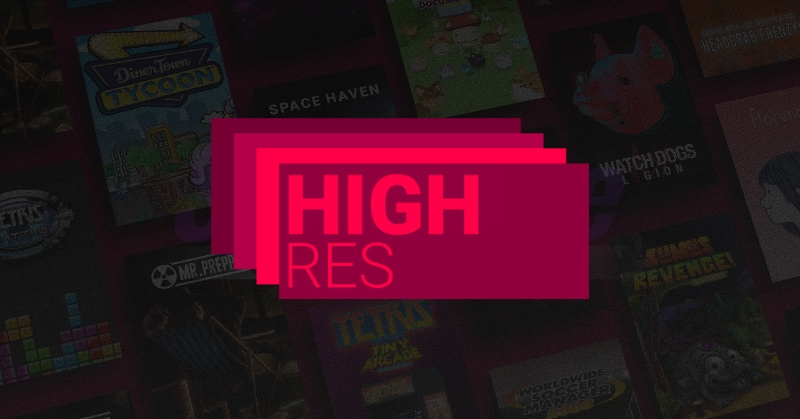
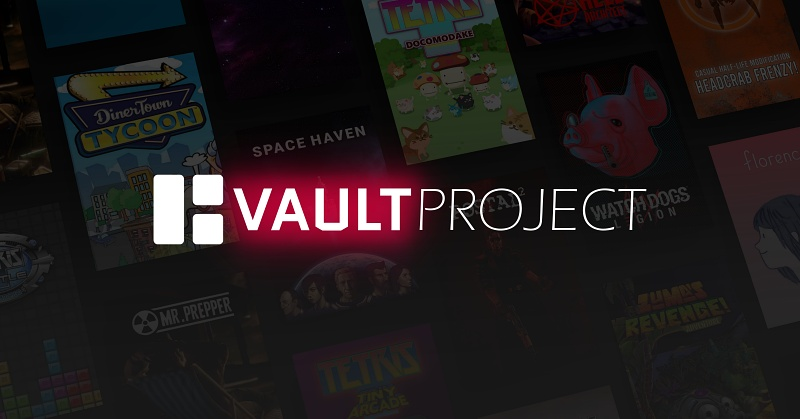
Changed branding

diff --git a/help.html b/help.html
@@ -3,14 +3,14 @@
   <head>
     <!--<meta http-equiv="refresh" content="0; URL='https://theema-dev.github.io/highRES/503'" />-->
     <!--META TAGS -->
-    <title>highRES - Help</title>
-    <meta property="og:title" content="highRES - Help" />
-    <meta property="og:description" content="highRES is an archive project for storing high resolution game assets. Download grids and customize your Steam Library." />
+    <title>Vault - Help</title>
+    <meta property="og:title" content="Vault - Help" />
+    <meta property="og:description" content="Vault is an archive project for storing high resolution game assets. Download grids and customize your Steam Library." />
     <meta property="og:type" content="website" />
-    <meta property="og:site_name" content="highRES" />
+    <meta property="og:site_name" content="Vault" />
     <meta property="og:url" content="https://theema-dev.github.io/highRES/" />
     <meta property="og:image" content="https://theema-dev.github.io/highRES/local/se-presence.jpg" />
-    <meta name="theme-color" content="#df003f">
+    <meta name="theme-color" content="#3c0615">
     <meta name="robots" content="index">
     <meta name="author" content="theEMA">
     <meta property='twitter:card' content="summary_large_image" />
@@ -24,7 +24,9 @@
     <link href="https://fonts.googleapis.com/css2?family=Tomorrow:wght@100;200;300;400;500;600;700;800;900&display=swap" rel="stylesheet">
     <link href="https://fonts.googleapis.com/css2?family=Roboto:ital,wght@0,100;0,300;0,400;0,500;0,700;0,900;1,100;1,300;1,400;1,500;1,700;1,900&display=swap" rel="stylesheet">
     <link href="https://fonts.googleapis.com/css2?family=Libre+Barcode+39+Text&display=swap" rel="stylesheet">
-    <link rel="icon" href="favicon.ico" type="image/x-icon" />
+    <link rel="icon" type="image/svg+xml" href="local/navigation-logo_dark.svg" sizes="any"/>
+    <link rel="icon" type="image/png" href="local/favicon/16.png" sizes="16x16"/>
+    <link rel="apple-touch-icon" href="local/favicon/512.png">
     <script defer src="app.js"></script>
     <!--END OF HEAD -->
   </head>
@@ -74,7 +76,7 @@
         <h2>Contact Me</h2>
         <p>If you have any questions or requests please contact me on Discord <code>theEMA#8983</code> or send an <a href="mailto:mstfemirkynr@pm.me?subject=Copyright%20or%20legal%20issues">email</a> to me.</p>
         <h2>Contributors</h2>
-        <p>Thanks to <i style="color: #b1b1b1;">theEMA, Moofy</i> and <i style="color: #b1b1b1;">Map Labs Team</i> for their contributions.</p><br>
+        <p>Thanks to <i style="color: #b1b1b1;">Moofy, Metaloe</i> and <i style="color: #b1b1b1;">Map Labs Team</i> for their contributions.</p><br>
         <p style="font-family: 'Libre Barcode 39 Text', cursive; font-size: 35px; text-align: right; margin: -20px 0px 0px 0px; padding-bottom: 25px; pointer-events: none;">protector-cognitionis</p>
       </div>
     </div>
@@ -82,8 +84,8 @@
       <div class="changelog">
         <button type="button" class="collapsible">Updates <b>1.7</b></button>
         <div class="content"><hr>
-          <h2>1.7 › VAULT STARTED 🔐 <b id="build">current build</b> <b>1.7.1-2308a</b></h2><p>
-            <mark>📣 We are still working on this update</mark><br><mark class="bd-change"></mark> Renamed the project <b style="font-family: 'Tomorrow', sans-serif; font-size: 14px; font-weight: 500;">VAULT</b> from 'HighRES', every aspect of the site is changed <i>20.08.23</i><br>
+          <h2>1.7 › VAULT STARTED 🔐 <b id="build">current build</b> <b>1.7.2-2308a</b></h2><p>
+            <mark>📣 We are still working on this update</mark><br><mark class="bd-change"></mark> Changed branding, upgraded the Grid Information UI and animations <i>29.08.23</i><br><mark class="bd-change"></mark> Renamed the project 'VAULT' from 'HighRES', every aspect of the site is changed <i>20.08.23</i><br>
           </p>
           <h2>1.6 › SOFTENING THE EDGES 📏 <b>1.6.6-2305f</b></h2><p>
             <mark class="bd-change"></mark> Changed the logo styles <i>03.05.23</i><br><mark class="bd-change"></mark> Improved the grid overlay for further expansion <i>25.04.23</i><br><mark class="bd-add"></mark> Imported a database for 1.7 update and further integration <i>17.11.22</i><br><mark class="bd-change"></mark> Improved updates section styling <i>22.11.21</i><br><mark class="bd-fix"></mark> Fixed a position bug in updates section for mobile devices <i>18.11.21</i><br><mark class="bd-change"></mark> We changed our design to be more smooth and artistic for modern devices <i>18.11.21</i>

diff --git a/local/script/variable.js b/local/script/variable.js
@@ -14,14 +14,14 @@ var alertTitle = document.querySelectorAll(".alert");
   alertTitle[0].style.display = 'none' ;
   alertTitle[0].innerHTML = '<p>placeholder</p>' ;
 
-  document.getElementById("websiteVersion").innerHTML = 'Version 1.6.6' ;
-  document.getElementById("gridCount").innerHTML = '109' ;
-  document.getElementById("gridCount").title = 'Uncategorized: 33\nMap Labs Collection: 57\nLEGO Collection: 8\nSoftware Collection: 10' ;
+  document.getElementById("websiteVersion").innerHTML = 'Version 1.7.2' ;
+  document.getElementById("gridCount").innerHTML = '110' ;
+  document.getElementById("gridCount").title = 'Uncategorized: 34\nMap Labs Collection: 57\nLEGO Collection: 8\nSoftware Collection: 10' ;
   document.getElementById("materialCount").innerHTML = '0' ;
   
 var badgeAddSelect = document.querySelectorAll(".bd-add");
   for (var i = 0; i <= badgeAddSelect.length - 1; i++) {
-    badgeAddSelect[i].textContent = 'ADD';
+    badgeAddSelect[i].textContent = 'NEW';
   }
 var badgeRemoveSelect = document.querySelectorAll(".bd-remove");
   for (var i = 0; i <= badgeRemoveSelect.length - 1; i++) {

diff --git a/styles.css b/styles.css
@@ -426,14 +426,13 @@ mark.bd-fix {
   opacity: 1;
   filter: invert(70%);
 }
-.gridInfo img:hover {filter: invert(100%); transition: ease-in-out all 200ms;}
+.badges img:hover {filter: invert(100%); transition: ease-in-out all 200ms;}
 .gridInfo p {
   font-family: 'Roboto', sans-serif;
   font-weight: 300;
   margin-top: 2px;
   font-size: 0.75em;
   color: #dddddd;
-  margin-right: 5px;
   padding: 0;
   cursor: default;
 }
@@ -445,6 +444,23 @@ mark.bd-fix {
   color: #dddddd;
   text-decoration: none;
 }
+.details img {
+  display: inline;
+  opacity: 1;
+  margin-left: 3px;
+  padding: 0;
+  width: 0.85em;
+  margin-bottom: -1px;
+  transition: ease-in-out all 200ms;
+}
+.details a p{transition: ease-in-out all 200ms;}
+.details a:hover > img {filter: drop-shadow(0px 0px 1px #ffffff) drop-shadow(0px 0px 2px rgba(212, 212, 212, 0.6));}
+.details a {
+  display: inline;
+  text-decoration: none;
+  pointer-events: visible;
+}
+.details p {display: inline; cursor: pointer;}
 /* FLEX GRID SECTION STARTS */
 .row {
   margin: 4px;
